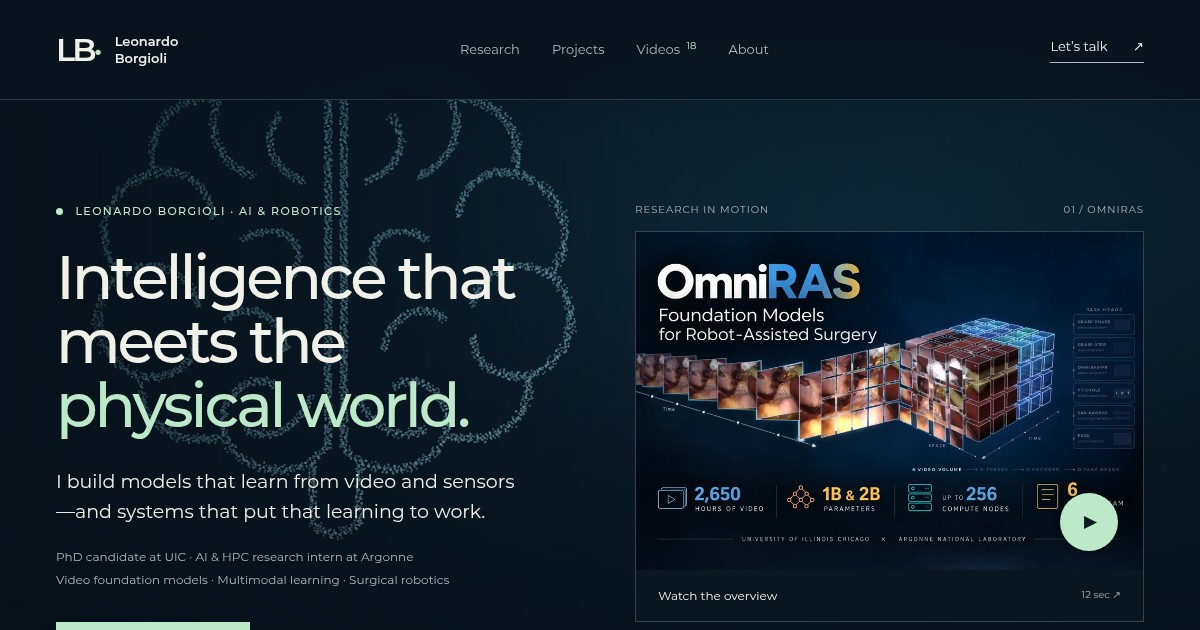
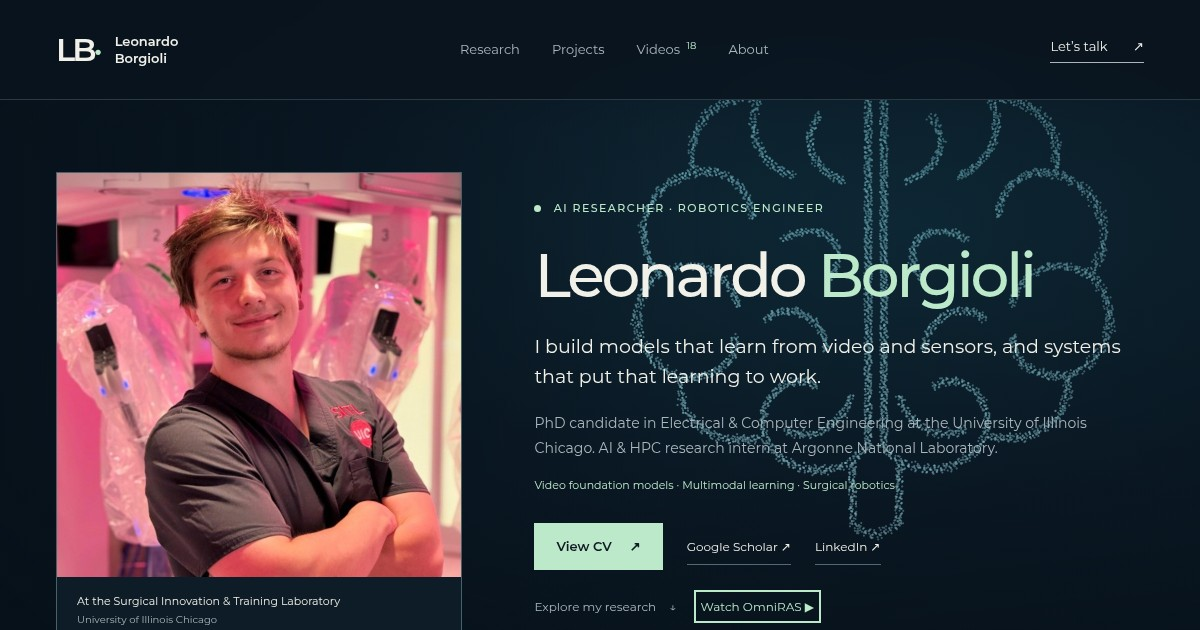
Lead with Leonardo portrait and group CV Scholar and LinkedIn links

diff --git a/index.html b/index.html
@@ -14,11 +14,11 @@
   <meta name="twitter:card" content="summary_large_image">
   <link rel="canonical" href="https://borgioli.github.io/Portfolio/">
   <link rel="icon" type="image/svg+xml" href="assets/favicon.svg">
-  <link rel="stylesheet" href="style.css?v=20261103-semantic">
-  <script src="media.js?v=20261103-semantic" defer></script>
-  <script src="app.js?v=20261103-semantic" defer></script>
-  <script src="particle-shapes.js?v=20261103-semantic" defer></script>
-  <script src="background.js?v=20261103-semantic" defer></script>
+  <link rel="stylesheet" href="style.css?v=20261103-profile">
+  <script src="media.js?v=20261103-profile" defer></script>
+  <script src="app.js?v=20261103-profile" defer></script>
+  <script src="particle-shapes.js?v=20261103-profile" defer></script>
+  <script src="background.js?v=20261103-profile" defer></script>
 </head>
 <body>
 <div class="background-scene" aria-hidden="true"><canvas id="particle-background"></canvas><div class="background-shade"></div></div>
@@ -30,21 +30,15 @@
 </header>
 <main id="main">
 <section class="hero wrap" id="home" aria-labelledby="hero-title">
+  <figure class="hero-portrait"><img src="assets/leonardo-borgioli.jpg" alt="Leonardo Borgioli beside a surgical robot at UIC’s Surgical Innovation and Training Laboratory" width="800" height="800" fetchpriority="high"><figcaption>At the Surgical Innovation & Training Laboratory<span>University of Illinois Chicago</span></figcaption></figure>
   <div class="hero-copy">
-    <p class="eyebrow"><span class="status-dot"></span> Leonardo Borgioli · AI & robotics</p>
-    <h1 id="hero-title">Intelligence that<br>meets the<br><em>physical world.</em></h1>
-    <p class="hero-lead">I build models that learn from video and sensors—and systems that put that learning to work.</p>
-    <p class="hero-detail">PhD candidate at UIC · AI & HPC research intern at Argonne<br>Video foundation models · Multimodal learning · Surgical robotics</p>
-    <div class="hero-actions"><a class="button primary" href="#research">Explore my work <span aria-hidden="true">↓</span></a><a class="button text-button" href="assets/Leonardo_Borgioli_CV.pdf" target="_blank" rel="noopener">View CV <span aria-hidden="true">↗</span></a></div>
-  </div>
-  <div class="hero-media">
-    <div class="media-topline"><span>RESEARCH IN MOTION</span><span>01 / OMNIRAS</span></div>
-    <button class="hero-play" data-video="omniras" aria-label="Play OmniRAS overview">
-      <img src="assets/posters/omniras.jpg" alt="OmniRAS surgical video foundation-model overview" width="960" height="640" fetchpriority="high">
-      <span class="play-circle" aria-hidden="true">▶</span>
-      <span class="hero-video-caption">Watch the overview <span>12 sec ↗</span></span>
-    </button>
-    <div class="hero-media-note"><span class="tiny-cross" aria-hidden="true">+</span><span>Learning representations.<br>Building real-world capability.</span><span class="coordinate" aria-hidden="true">VISION<br>→ ACTION</span></div>
+    <p class="eyebrow"><span class="status-dot"></span> AI researcher · Robotics engineer</p>
+    <h1 id="hero-title">Leonardo <em>Borgioli</em></h1>
+    <p class="hero-lead">I build models that learn from video and sensors, and systems that put that learning to work.</p>
+    <p class="hero-detail">PhD candidate in Electrical & Computer Engineering at the University of Illinois Chicago. AI & HPC research intern at Argonne National Laboratory.</p>
+    <p class="hero-focus">Video foundation models · Multimodal learning · Surgical robotics</p>
+    <div class="profile-links" aria-label="CV and professional profiles"><a class="button primary" href="assets/Leonardo_Borgioli_CV.pdf" target="_blank" rel="noopener">View CV <span aria-hidden="true">↗</span></a><a href="https://scholar.google.com/citations?user=Gir5HwMAAAAJ&amp;hl=en" target="_blank" rel="noopener">Google Scholar <span aria-hidden="true">↗</span></a><a href="https://www.linkedin.com/in/leonardo-borgioli-474763171/" target="_blank" rel="noopener">LinkedIn <span aria-hidden="true">↗</span></a></div>
+    <div class="hero-explore"><a href="#research">Explore my research <span aria-hidden="true">↓</span></a><button class="inline-button" data-video="omniras">Watch OmniRAS <span aria-hidden="true">▶</span></button></div>
   </div>
 </section>
 <div class="affiliation-strip wrap"><span class="strip-label">Research across</span><span>University of Illinois Chicago</span><span>Argonne National Laboratory</span><span>Surgical Innovation & Training Laboratory</span></div>
@@ -89,12 +83,12 @@
 </section>
 
 <section class="about-section" id="about" aria-labelledby="about-title"><div class="wrap section about-grid">
-  <div class="profile-heading"><figure class="profile-photo"><img src="assets/leonardo-borgioli.jpg" alt="Leonardo Borgioli beside a surgical robot at the Surgical Innovation and Training Laboratory" width="800" height="800" loading="lazy"><figcaption>Leonardo Borgioli <span>AI & robotics researcher</span></figcaption></figure><div><p class="eyebrow">04 / A little context</p><h2 id="about-title">Research depth.<br><em>Engineering instinct.</em></h2><p class="about-lead">I’m Leonardo Borgioli, a PhD candidate in Electrical and Computer Engineering at the University of Illinois Chicago, with an expected graduation in May 2027.</p></div></div>
-  <div class="about-story"><p>At UIC’s Surgical Innovation and Training Laboratory and Argonne National Laboratory, I work across the stack: collecting and curating data, designing learning systems, scaling training, and testing what those representations can do.</p><p>My background spans robotics and AI across France, Italy, and the United States. I work in English, French, and Italian.</p><a class="button primary" href="assets/Leonardo_Borgioli_CV.pdf" target="_blank" rel="noopener">Read my CV <span aria-hidden="true">↗</span></a></div>
+  <div class="profile-heading"><div><p class="eyebrow">04 / A little context</p><h2 id="about-title">Research depth.<br><em>Engineering instinct.</em></h2><p class="about-lead">I’m Leonardo Borgioli, a PhD candidate in Electrical and Computer Engineering at the University of Illinois Chicago, with an expected graduation in May 2027.</p></div></div>
+  <div class="about-story"><p>At UIC’s Surgical Innovation and Training Laboratory and Argonne National Laboratory, I work across the stack: collecting and curating data, designing learning systems, scaling training, and testing what those representations can do.</p><p>My background spans robotics and AI across France, Italy, and the United States. I work in English, French, and Italian.</p><div class="profile-links" aria-label="CV and professional profiles"><a class="button primary" href="assets/Leonardo_Borgioli_CV.pdf" target="_blank" rel="noopener">Read my CV <span aria-hidden="true">↗</span></a><a href="https://scholar.google.com/citations?user=Gir5HwMAAAAJ&amp;hl=en" target="_blank" rel="noopener">Google Scholar ↗</a><a href="https://www.linkedin.com/in/leonardo-borgioli-474763171/" target="_blank" rel="noopener">LinkedIn ↗</a></div></div>
   <div class="experience"><div class="experience-item"><span class="experience-date">2026 — present</span><h3>Argonne National Laboratory</h3><p>Research Intern · AI & High-Performance Computing</p></div><div class="experience-item"><span class="experience-date">2023 — present</span><h3>University of Illinois Chicago</h3><p>Graduate Research Assistant · Surgical Innovation and Training Laboratory</p></div><div class="experience-item"><span class="experience-date">2022</span><h3>Italian Institute of Technology</h3><p>Master’s Thesis Research Intern · Robotic rehabilitation</p></div><div class="toolkit"><p class="kicker">Tools I work with</p><div class="tags"><span>Python</span><span>PyTorch</span><span>C / C++</span><span>CUDA</span><span>Distributed training</span><span>ROS</span><span>dVRK</span><span>Video transformers</span><span>RAG</span><span>Linux / HPC</span></div></div></div>
 </div></section>
 
-<section class="contact wrap section" aria-labelledby="contact-title"><p class="eyebrow">Let’s build what’s next</p><div class="contact-content"><h2 id="contact-title">Working on AI<br>for the <em>physical world?</em></h2><div><p>I’d love to talk about research and engineering opportunities in foundation models, multimodal AI, and robotics.</p><a class="email-link" href="mailto:lborgi2@uic.edu">lborgi2@uic.edu <span aria-hidden="true">↗</span></a><div class="contact-links"><a href="https://www.linkedin.com/in/leonardo-borgioli-474763171/" target="_blank" rel="noopener">LinkedIn ↗</a><a href="https://github.com/Borgioli" target="_blank" rel="noopener">GitHub ↗</a><a href="assets/Leonardo_Borgioli_CV.pdf" target="_blank" rel="noopener">CV ↗</a></div></div></div></section>
+<section class="contact wrap section" aria-labelledby="contact-title"><p class="eyebrow">Let’s build what’s next</p><div class="contact-content"><h2 id="contact-title">Working on AI<br>for the <em>physical world?</em></h2><div><p>I’d love to talk about research and engineering opportunities in foundation models, multimodal AI, and robotics.</p><a class="email-link" href="mailto:lborgi2@uic.edu">lborgi2@uic.edu <span aria-hidden="true">↗</span></a><div class="contact-links"><a href="assets/Leonardo_Borgioli_CV.pdf" target="_blank" rel="noopener">CV ↗</a><a href="https://scholar.google.com/citations?user=Gir5HwMAAAAJ&amp;hl=en" target="_blank" rel="noopener">Google Scholar ↗</a><a href="https://www.linkedin.com/in/leonardo-borgioli-474763171/" target="_blank" rel="noopener">LinkedIn ↗</a><a href="https://github.com/Borgioli" target="_blank" rel="noopener">GitHub ↗</a></div></div></div></section>
 </main>
 <footer class="wrap"><a class="footer-name" href="#home">Leonardo Borgioli <span>AI & robotics research</span></a><span>Chicago, IL · Updated November 2026</span><button id="motion-toggle" type="button" aria-pressed="false">Pause background motion</button><a href="#home">Back to top ↑</a></footer>
 

diff --git a/style.css b/style.css
@@ -53,3 +53,28 @@ em{font-family:var(--sans);font-style:normal;font-weight:500}
 .about-story{align-self:start}
 @media(max-width:800px){.profile-heading{gap:30px;grid-template-columns:200px 1fr}.profile-heading h2{font-size:35px}}
 @media(max-width:540px){.profile-heading{grid-template-columns:1fr;gap:28px}.profile-photo{width:240px}.profile-heading h2{font-size:34px}.about-grid{row-gap:30px}}
+
+/* Start with the person behind the research and keep professional links together. */
+.hero{grid-template-columns:minmax(270px,.8fr) minmax(0,1.2fr);gap:72px;padding-block:72px}
+.hero-portrait{margin:0;width:100%;max-width:450px;border:1px solid #45616b;background:rgba(14,29,39,.92)}
+.hero-portrait img{width:100%;height:auto;aspect-ratio:1;object-fit:cover}
+.hero-portrait figcaption{padding:15px 20px;font-size:11px;color:var(--text);line-height:1.7}
+.hero-portrait figcaption span{display:block;font-size:10px;color:var(--muted)}
+.hero h1{font-size:clamp(46px,5.1vw,74px);line-height:1.06;margin-bottom:24px}
+.hero h1 em{white-space:normal}
+.hero-lead{max-width:620px;font-size:19px}
+.hero-detail{max-width:590px;font-size:14px;line-height:1.8;margin-bottom:14px}
+.hero-focus{font-size:11px;color:var(--accent);line-height:1.8;margin-bottom:28px}
+.profile-links{display:flex;align-items:center;flex-wrap:wrap;gap:18px 24px;font-size:12px}
+.profile-links>a:not(.button){border-bottom:1px solid #526b72;padding-block:8px;white-space:nowrap}
+.profile-links .button{gap:18px}
+.about-story .profile-links{margin-top:24px;gap:14px 20px}
+.about-story .profile-links .primary{margin-top:0}
+.hero-explore{display:flex;flex-wrap:wrap;gap:24px;margin-top:27px;font-size:12px;color:var(--muted)}
+.hero-explore a span{margin-left:10px}
+.hero-explore button{font-size:12px}
+.profile-heading{display:block}
+.contact-links{flex-wrap:wrap;gap:18px 24px}
+@media(max-width:1100px){.hero{gap:40px}.hero h1{font-size:54px}.hero-lead{font-size:17px}.profile-links{gap:14px 18px}}
+@media(max-width:800px){.hero{grid-template-columns:1fr;gap:34px;padding-block:45px 55px}.hero-portrait{max-width:320px}.hero h1{font-size:58px}.hero-copy{max-width:650px}.hero-detail{font-size:14px}.hero-lead{font-size:18px}}
+@media(max-width:540px){.hero{padding-top:30px;gap:28px}.hero-portrait{max-width:260px}.hero-portrait figcaption{padding:12px 14px;font-size:10px}.hero-portrait figcaption span{font-size:9px}.hero .eyebrow{font-size:9px;margin-bottom:17px}.hero h1{font-size:clamp(40px,11vw,52px);margin-bottom:20px}.hero-lead{font-size:16px}.hero-detail{font-size:12px}.hero-focus{font-size:10px;margin-bottom:22px}.profile-links{gap:12px 18px;font-size:11px}.profile-links .button{padding:12px 14px;font-size:11px;gap:14px}.hero-explore{gap:18px;font-size:11px}.hero-explore button{font-size:11px}}

diff --git a/particle-shapes.js b/particle-shapes.js
@@ -9,7 +9,7 @@ window.createPortfolioShapes = (count) => {
   const line = (x,y,a,b) => {ctx.beginPath();ctx.moveTo(x,y);ctx.lineTo(a,b);ctx.stroke();};
   const rounded = (x,y,w,h,r) => {ctx.beginPath();ctx.roundRect(x,y,w,h,r);ctx.stroke();};
   const definitions = [
-    {name:'brain', selector:'#home', center:.28, draw(){
+    {name:'brain', selector:'#home', center:.73, draw(){
       // Bilateral cerebral outline, folds, and brain stem.
       const hemisphere=()=>{
         path('M250 362 C229 392 183 383 171 355 C130 364 102 340 108 309 C70 295 65 254 91 230 C67 198 86 160 119 153 C110 121 135 92 166 98 C183 66 225 70 250 98 Z');

diff --git a/README.md b/README.md
@@ -46,4 +46,4 @@ The research and video content retain their respective authorship and rights. Th
 
 ## Motion design
 
-The continuous particle backdrop is inspired by [Motion’s photo-to-globe example](https://motion.dev/examples/js-three-tsl), implemented independently without runtime libraries. Particles form a brain at the introduction, a video-token cube for foundation models, a sensory glove, surgical instruments, a database for CRCD, a video-player symbol, LB initials, and a contact envelope. Shapes hold while reading and morph near topic boundaries. The About section includes Leonardo’s supplied photo beside the surgical robot. Motion pauses while a video is open or the tab is hidden, respects reduced-motion preferences, and can be disabled using the footer control.
+The continuous particle backdrop is inspired by [Motion’s photo-to-globe example](https://motion.dev/examples/js-three-tsl), implemented independently without runtime libraries. Particles form a brain at the introduction, a video-token cube for foundation models, a sensory glove, surgical instruments, a database for CRCD, a video-player symbol, LB initials, and a contact envelope. Shapes hold while reading and morph near topic boundaries. The opening section introduces Leonardo with his supplied photo beside the surgical robot. CV, Google Scholar, and LinkedIn links are grouped in the introduction, About section, and contact area. Motion pauses while a video is open or the tab is hidden, respects reduced-motion preferences, and can be disabled using the footer control.
